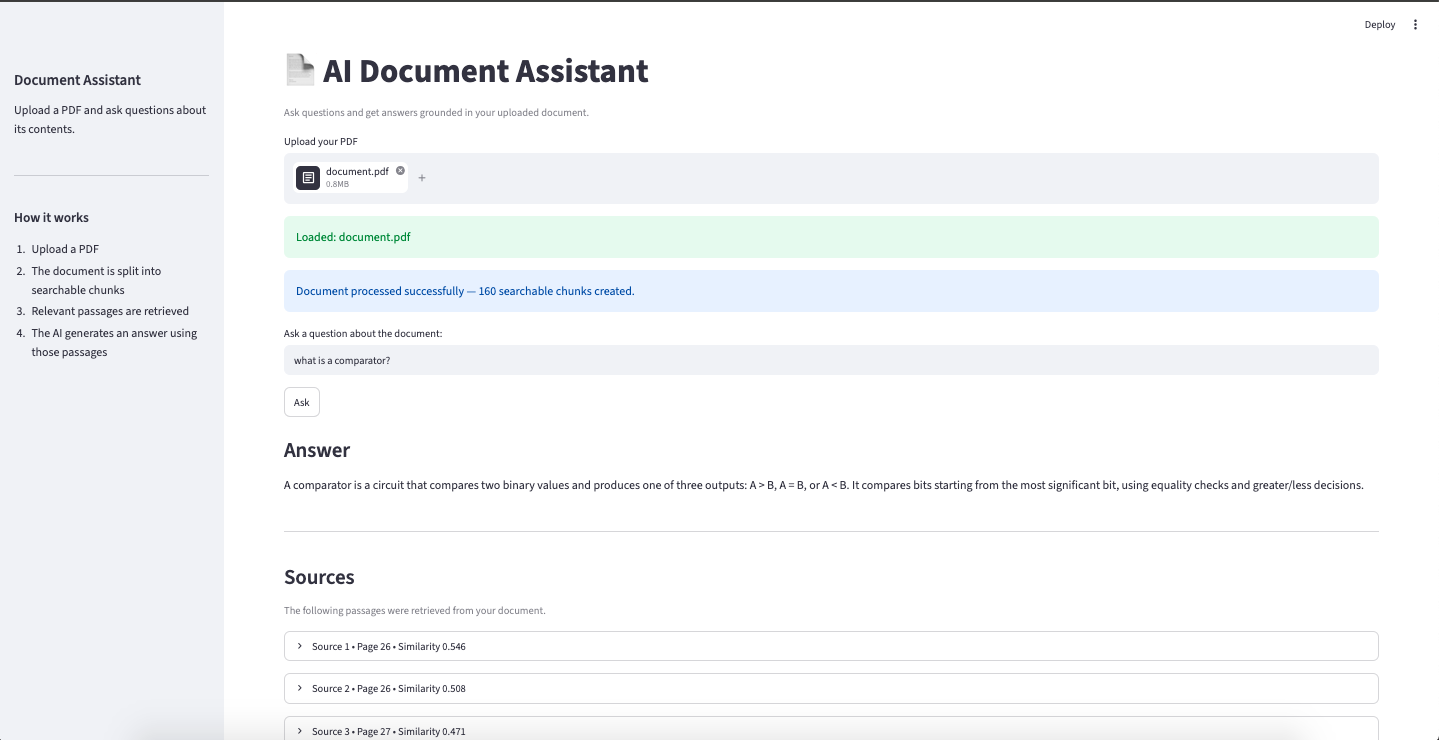
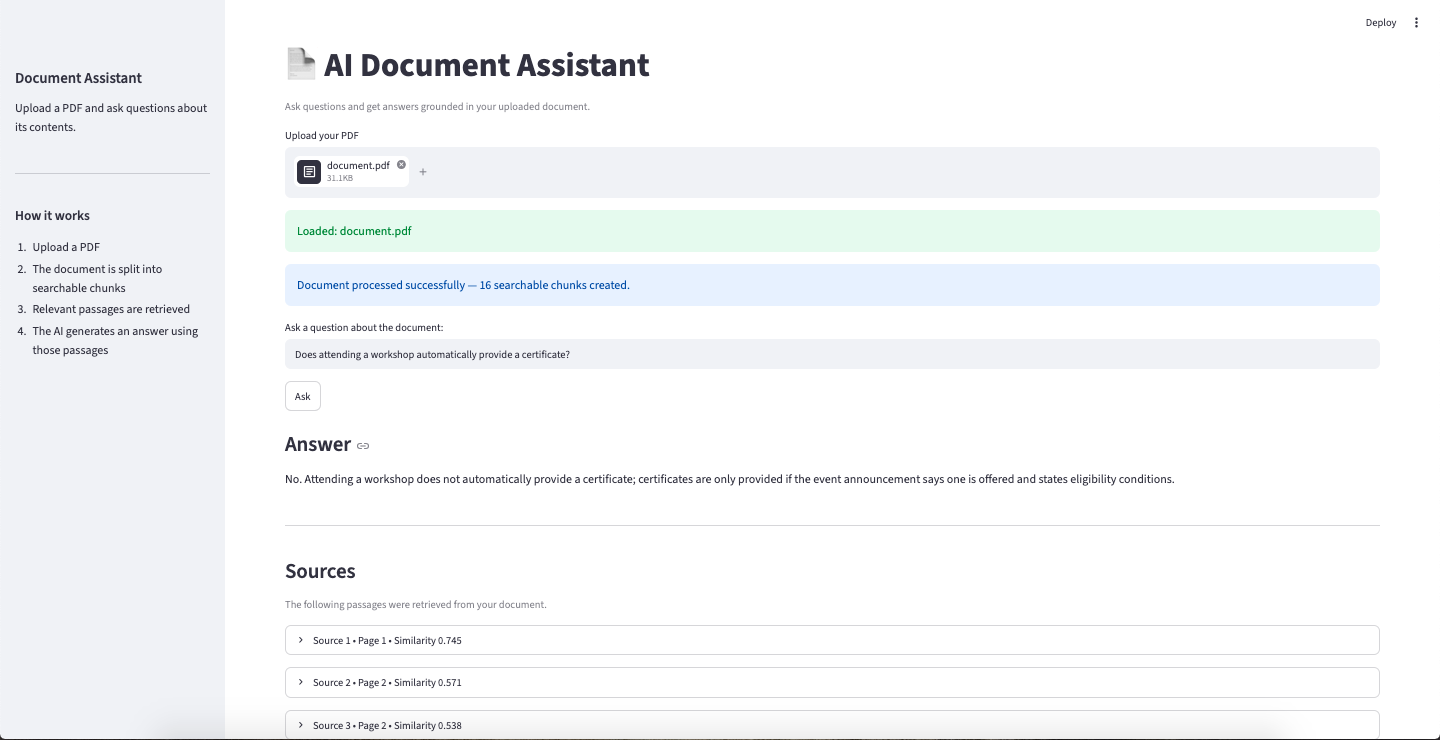
Update documentation and demo screenshot

diff --git a/DECISIONS.md b/DECISIONS.md
@@ -18,13 +18,13 @@ I tested two chunking configurations.
 
 - Chunk size: 500 characters
 - Overlap: 0 characters
-- Number of chunks: 132
+- Number of chunks: 13
 
 ### Configuration B — Overlapping Chunks
 
 - Chunk size: 500 characters
 - Overlap: 100 characters
-- Number of chunks: 160
+- Number of chunks: 16
 
 ### Why test overlapping chunks?
 
@@ -42,11 +42,11 @@ I tested Configuration B using several questions.
 
 | Question | Top Page | Score | Relevant? |
 |---|---:|---:|---|
-| What are the topics in the Minor exam? | 1 | 0.4062 | Yes |
-| What is 2's complement? | 7 | 0.6237 | Yes |
-| What are universal gates? | 14 | 0.4843 | Yes |
-| What is a Karnaugh map used for? | 16 | 0.5563 | Yes |
-| Who is the CEO of Google? | 14 | 0.1680 | No answer in document |
+| What are the opening hours of the Student Support Desk? | 1 | 0.7447 | Yes |
+| What broad areas does GDG On Campus USAR organize learning activities in? | 1 | 0.8033 | Yes |
+| Does attending a workshop automatically provide a certificate? | 1 | 0.7449 | Yes |
+| What should a project repository include according to the handbook? | 2 | 0.5827 | Yes |
+| Who is the current community lead? | 2 | 0.4152 | No answer in document |
 
 The answerable questions retrieved passages containing
 information relevant to the questions.
@@ -114,16 +114,3 @@ The final output displays:
 This makes the answer easier to verify.
 
 ---
-
-## 8. Known Observation
-
-For the question "what are the topics in minor exam",
-retrieval worked correctly, but one run returned an empty
-LLM answer (`None`) even though relevant passages were
-retrieved.
-
-Other tested questions produced normal answers.
-
-This is being treated as an edge case rather than a retrieval
-failure because the relevant source passages were successfully
-identified.

diff --git a/README.md b/README.md
@@ -164,11 +164,11 @@ and generate an answer using the retrieved context.
 
 The system was tested with multiple questions, including:
 
-- What are the topics in the Minor exam?
-- What is 2's complement?
-- What are universal gates?
-- What is a Karnaugh map used for?
-- Who is the CEO of Google?
+- What are the opening hours of the Student Support Desk?
+- What broad areas does GDG On Campus USAR organize learning activities in?
+- Does attending a workshop automatically provide a certificate?
+- What should a project repository include according to the handbook?
+- Who is the current community lead?
 
 The final question is intentionally outside the document.
 
@@ -183,13 +183,13 @@ Two configurations were tested.
 
 - Chunk size: 500 characters
 - Overlap: 0 characters
-- Number of chunks: 132
+- Number of chunks: 13
 
 ### Configuration B
 
 - Chunk size: 500 characters
 - Overlap: 100 characters
-- Number of chunks: 160
+- Number of chunks: 16
 
 Configuration B was selected because overlapping chunks
 help preserve context between neighboring sections.
